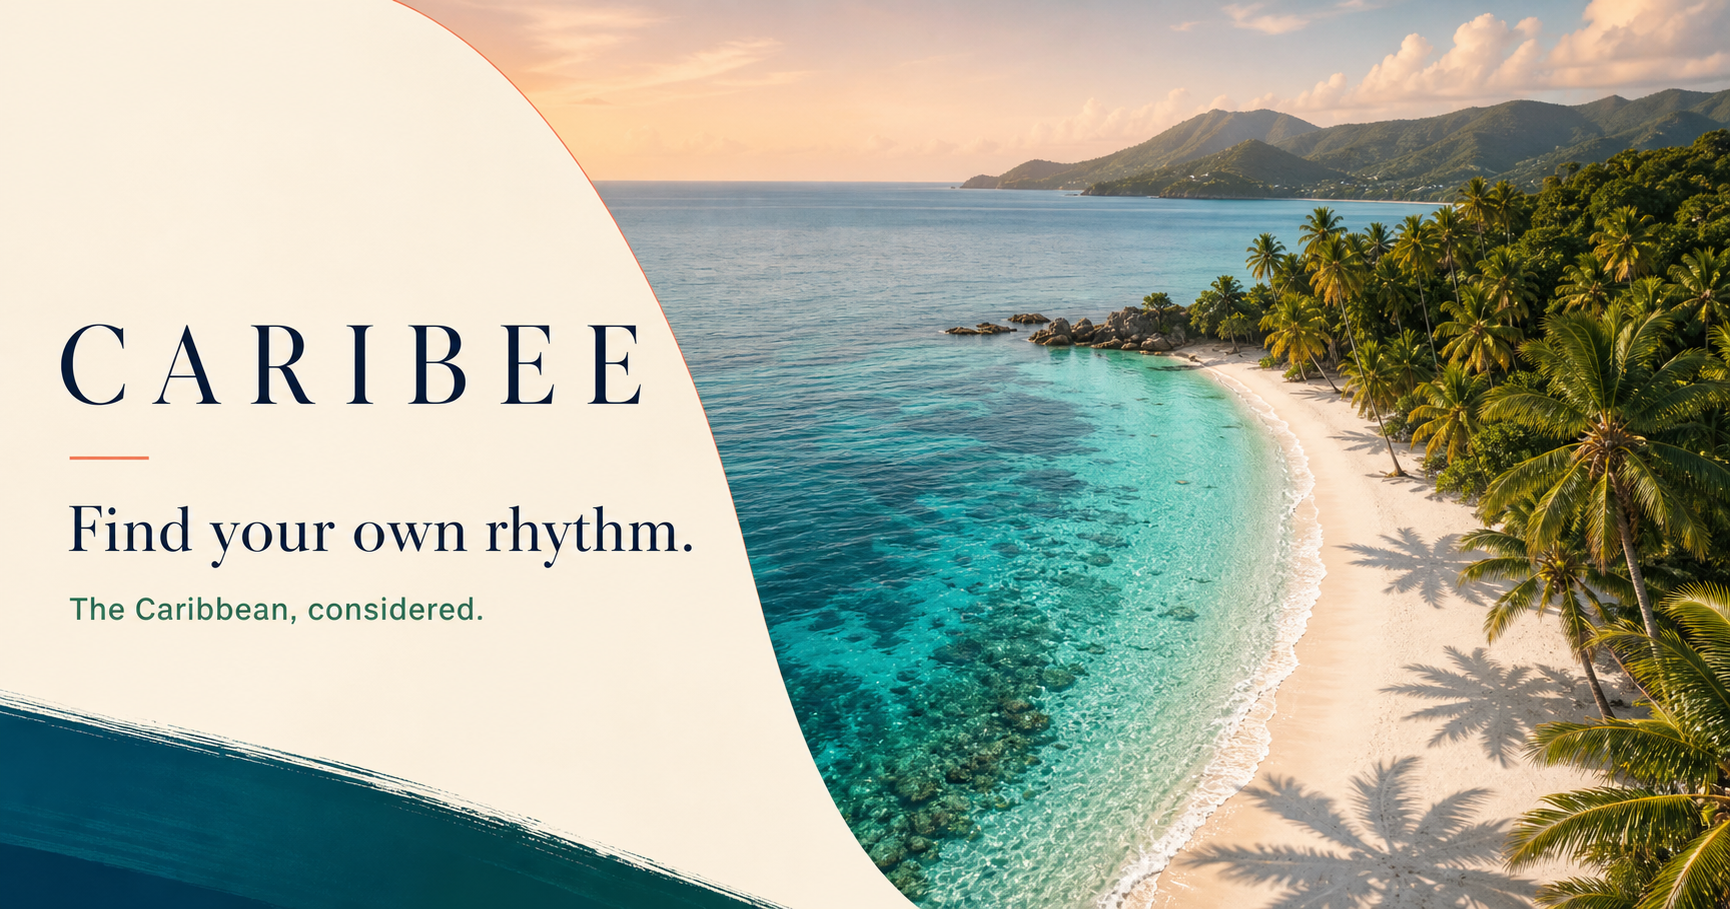
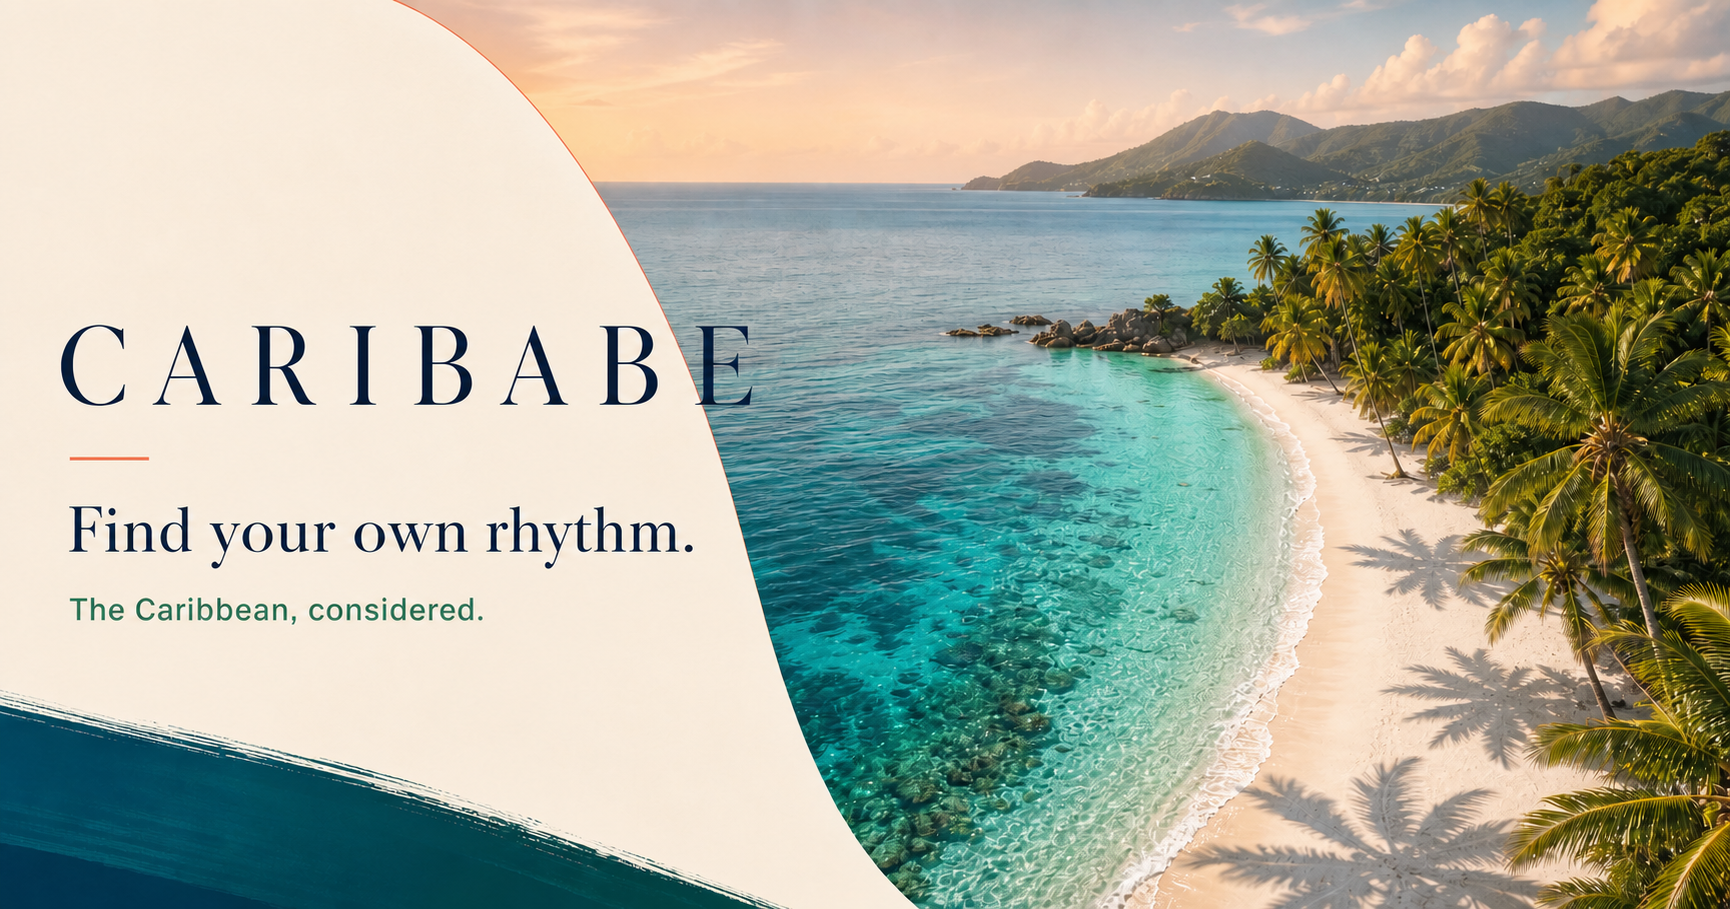
Rename Caribee to Caribabe

diff --git a/app/page.tsx b/app/page.tsx
@@ -127,7 +127,7 @@ const experiences: Experience[] = [
     rating: "4.98",
     reviews: 126,
     price: 170,
-    tag: "Caribee exclusive",
+    tag: "Caribabe exclusive",
     description:
       "A private, open-air dinner shaped by island ingredients, a chef’s tasting menu, and an uninterrupted sea view.",
   },
@@ -254,11 +254,11 @@ export default function Home() {
         <div className="hero-shade" />
 
         <header className="site-header">
-          <a className="brand" href="#explore" aria-label="Caribee home">
+          <a className="brand" href="#explore" aria-label="Caribabe home">
             <span className="brand-mark" aria-hidden="true">
               C
             </span>
-            <span>CARIBEE</span>
+            <span>CARIBABE</span>
           </a>
 
           <nav className="desktop-nav" aria-label="Primary navigation">
@@ -351,7 +351,7 @@ export default function Home() {
             className="search-submit"
             type="button"
             onClick={() => setSearchOpen(true)}
-            aria-label="Search Caribee"
+            aria-label="Search Caribabe"
           >
             <Search size={22} />
             <span>Search</span>
@@ -396,7 +396,7 @@ export default function Home() {
         </div>
         <div className="intro-copy">
           <p>
-            Not a checklist. Not an all-inclusive. Caribee brings together the
+            Not a checklist. Not an all-inclusive. Caribabe brings together the
             places locals love and the moments you cannot plan for.
           </p>
           <button className="text-link" type="button" onClick={() => setSearchOpen(true)}>
@@ -657,7 +657,7 @@ export default function Home() {
           <span className="journal-number">01</span>
         </div>
         <div className="journal-copy">
-          <p className="eyebrow light">Caribee journal · Jamaica</p>
+          <p className="eyebrow light">Caribabe journal · Jamaica</p>
           <h2>The road that takes its time.</h2>
           <p>
             From the mist of the Blue Mountains to a night swim in Portland,
@@ -728,7 +728,7 @@ export default function Home() {
           <div>
             <a className="brand footer-brand" href="#explore">
               <span className="brand-mark">C</span>
-              <span>CARIBEE</span>
+              <span>CARIBABE</span>
             </a>
             <p>The Caribbean, considered.</p>
           </div>
@@ -740,7 +740,7 @@ export default function Home() {
               <a href="#journal">Journal</a>
             </div>
             <div>
-              <strong>Caribee</strong>
+              <strong>Caribabe</strong>
               <button type="button" onClick={() => notify("Our story is coming soon")}>Our story</button>
               <button type="button" onClick={() => notify("Business tools are coming soon")}>For businesses</button>
               <button type="button" onClick={() => notify("Concierge is online")}>Get help</button>
@@ -748,7 +748,7 @@ export default function Home() {
           </div>
         </div>
         <div className="footer-bottom page-shell">
-          <span>© 2026 Caribee</span>
+          <span>© 2026 Caribabe</span>
           <span>Photography from Pexels · Made with love in the Caribbean</span>
         </div>
       </footer>
@@ -785,7 +785,7 @@ export default function Home() {
             exit={{ opacity: 0 }}
             role="dialog"
             aria-modal="true"
-            aria-label="Search Caribee"
+            aria-label="Search Caribabe"
           >
             <motion.div
               className="search-modal"
@@ -797,7 +797,7 @@ export default function Home() {
               <div className="modal-top">
                 <span className="brand modal-brand">
                   <span className="brand-mark">C</span>
-                  <span>CARIBEE</span>
+                  <span>CARIBABE</span>
                 </span>
                 <button
                   className="modal-close"

diff --git a/app/layout.tsx b/app/layout.tsx
@@ -13,34 +13,34 @@ export async function generateMetadata(): Promise<Metadata> {
   const host =
     requestHeaders.get("x-forwarded-host") ??
     requestHeaders.get("host") ??
-    "caribee.travel";
+    "caribabe.travel";
   const protocol =
     requestHeaders.get("x-forwarded-proto") ??
     (host.startsWith("localhost") ? "http" : "https");
   const origin = `${protocol}://${host}`;
 
   return {
-    title: "Caribee — The Caribbean, considered",
+    title: "Caribabe — The Caribbean, considered",
     description:
       "Discover, plan, book, and experience the most memorable places across the Caribbean.",
     metadataBase: new URL(origin),
     openGraph: {
-      title: "Caribee — Find your own rhythm",
+      title: "Caribabe — Find your own rhythm",
       description:
-        "Places with a pulse. People with a story. Go beyond the postcard with Caribee.",
+        "Places with a pulse. People with a story. Go beyond the postcard with Caribabe.",
       type: "website",
       images: [
         {
           url: `${origin}/og.png`,
           width: 1536,
           height: 864,
-          alt: "Caribee — Find your own rhythm",
+          alt: "Caribabe — Find your own rhythm",
         },
       ],
     },
     twitter: {
       card: "summary_large_image",
-      title: "Caribee — Find your own rhythm",
+      title: "Caribabe — Find your own rhythm",
       description:
         "A more beautiful way to discover and plan the Caribbean.",
       images: [`${origin}/og.png`],
